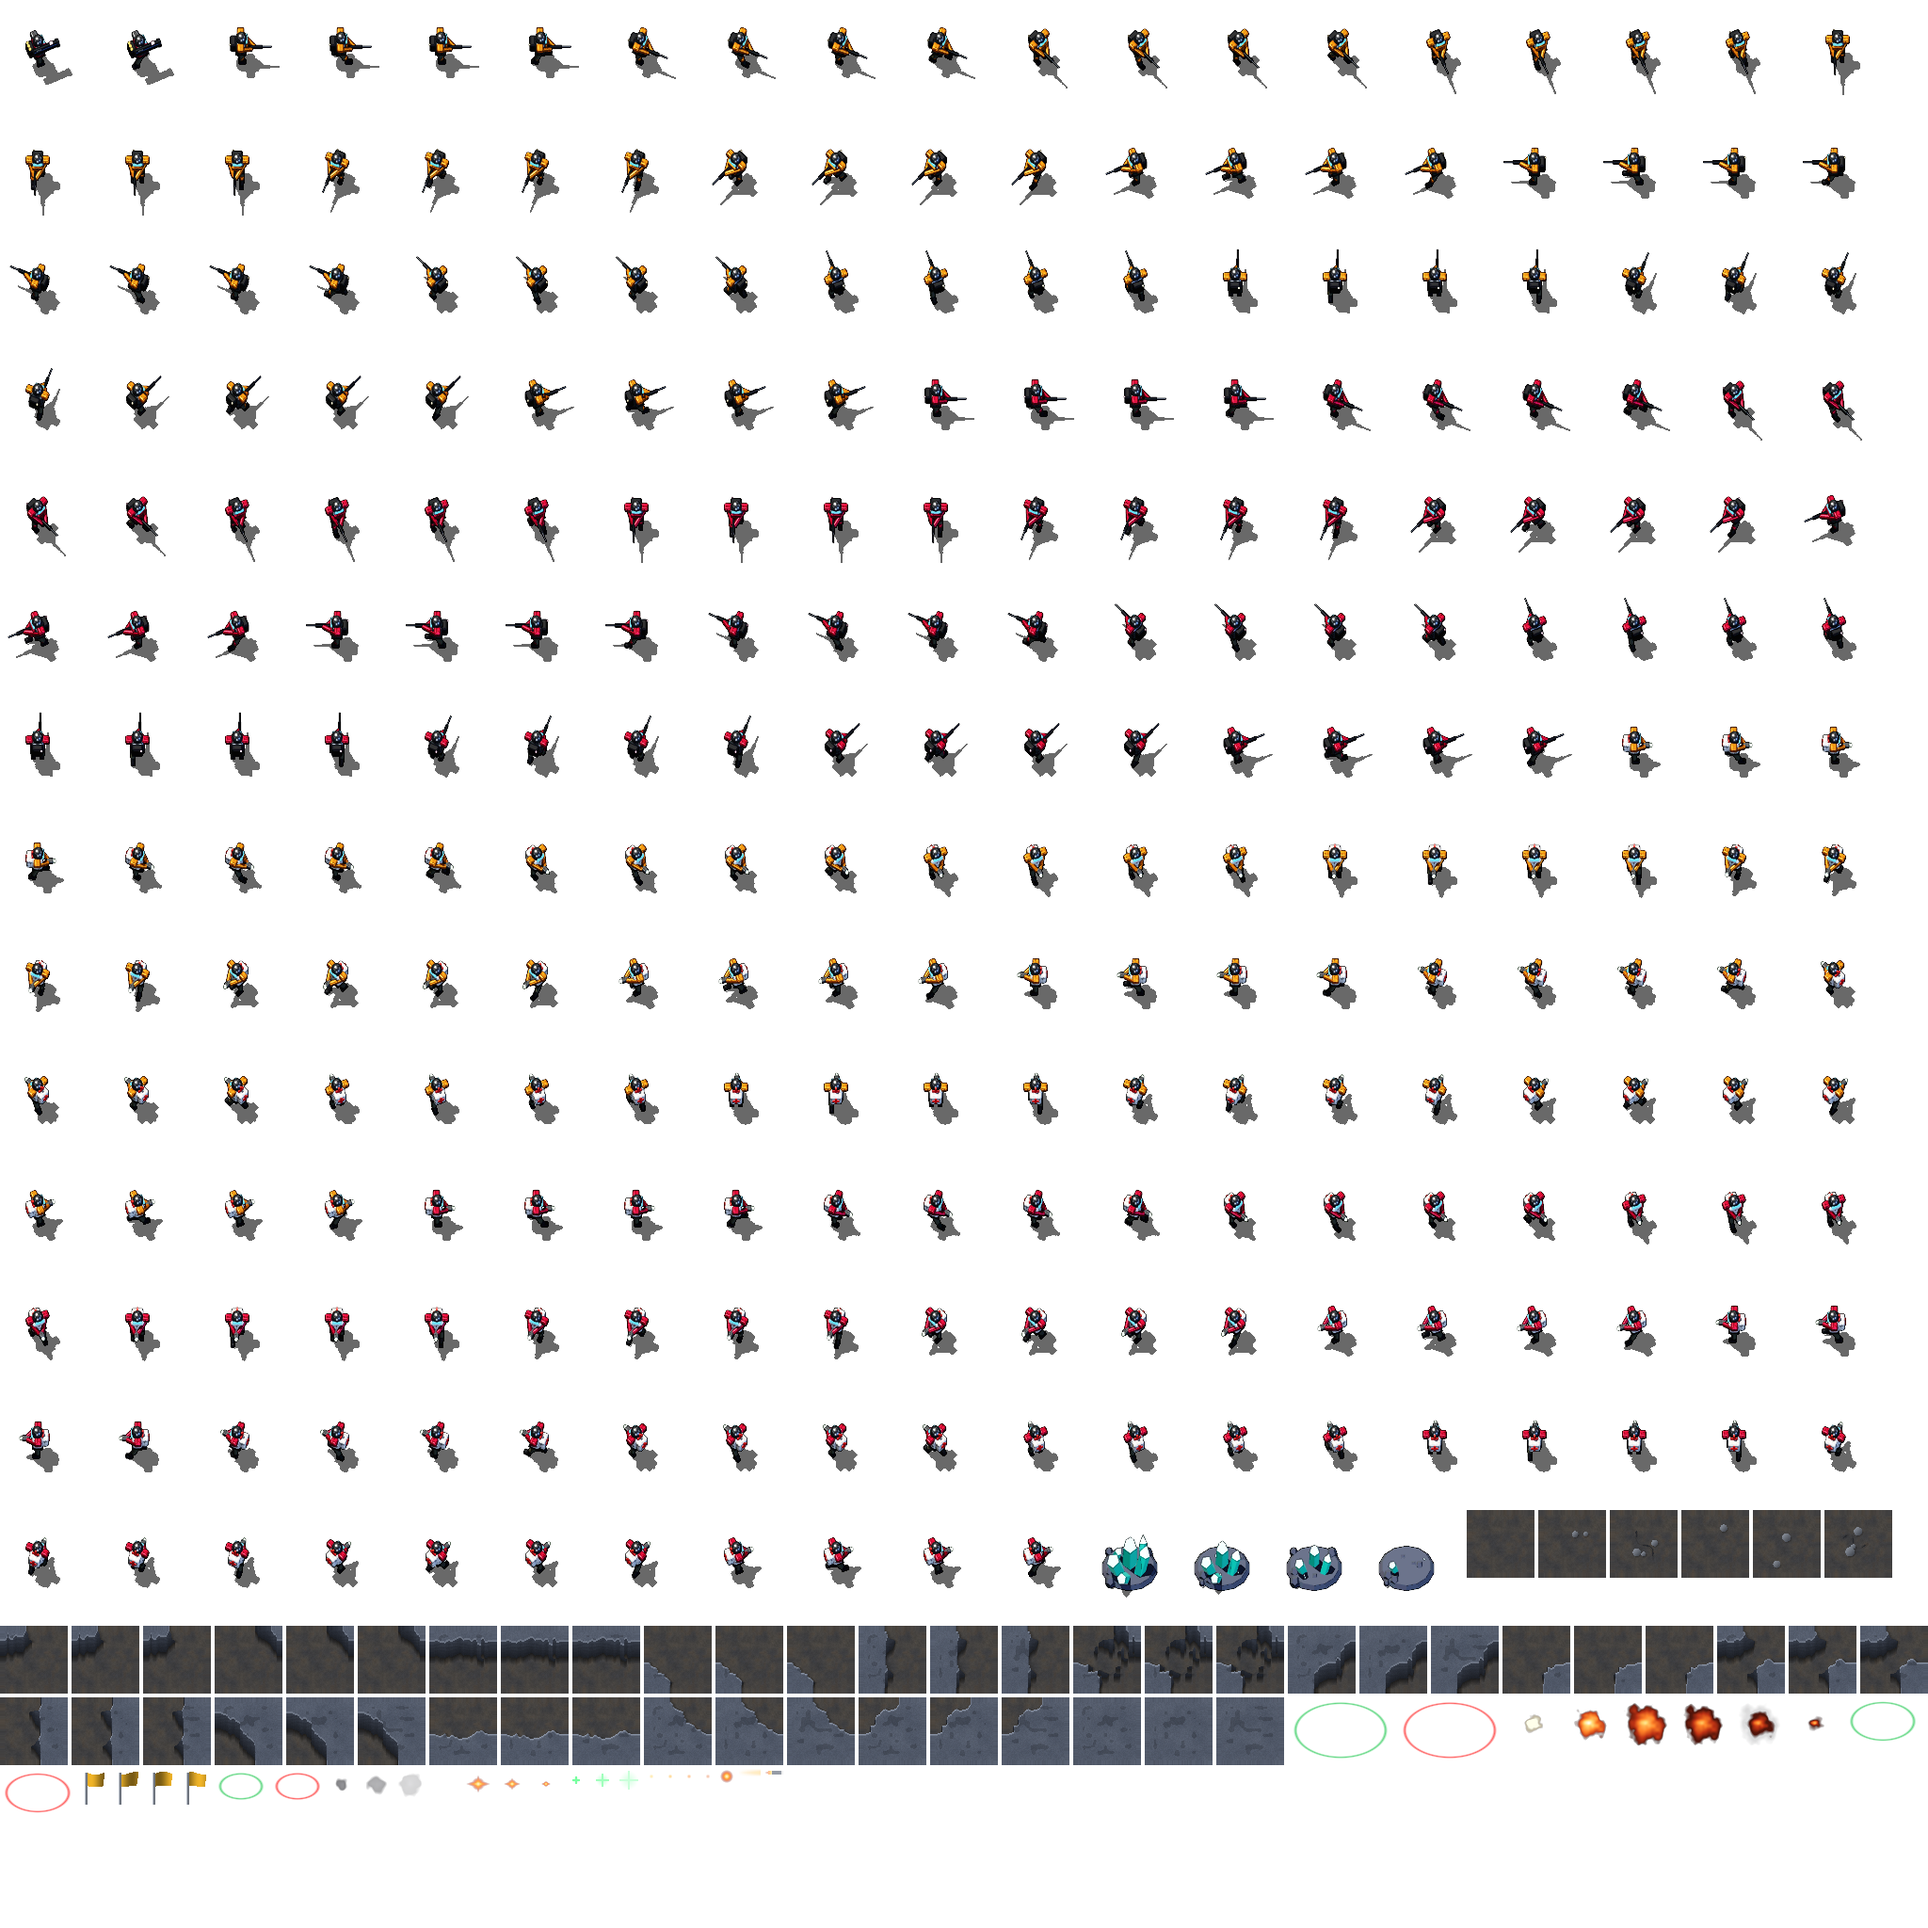
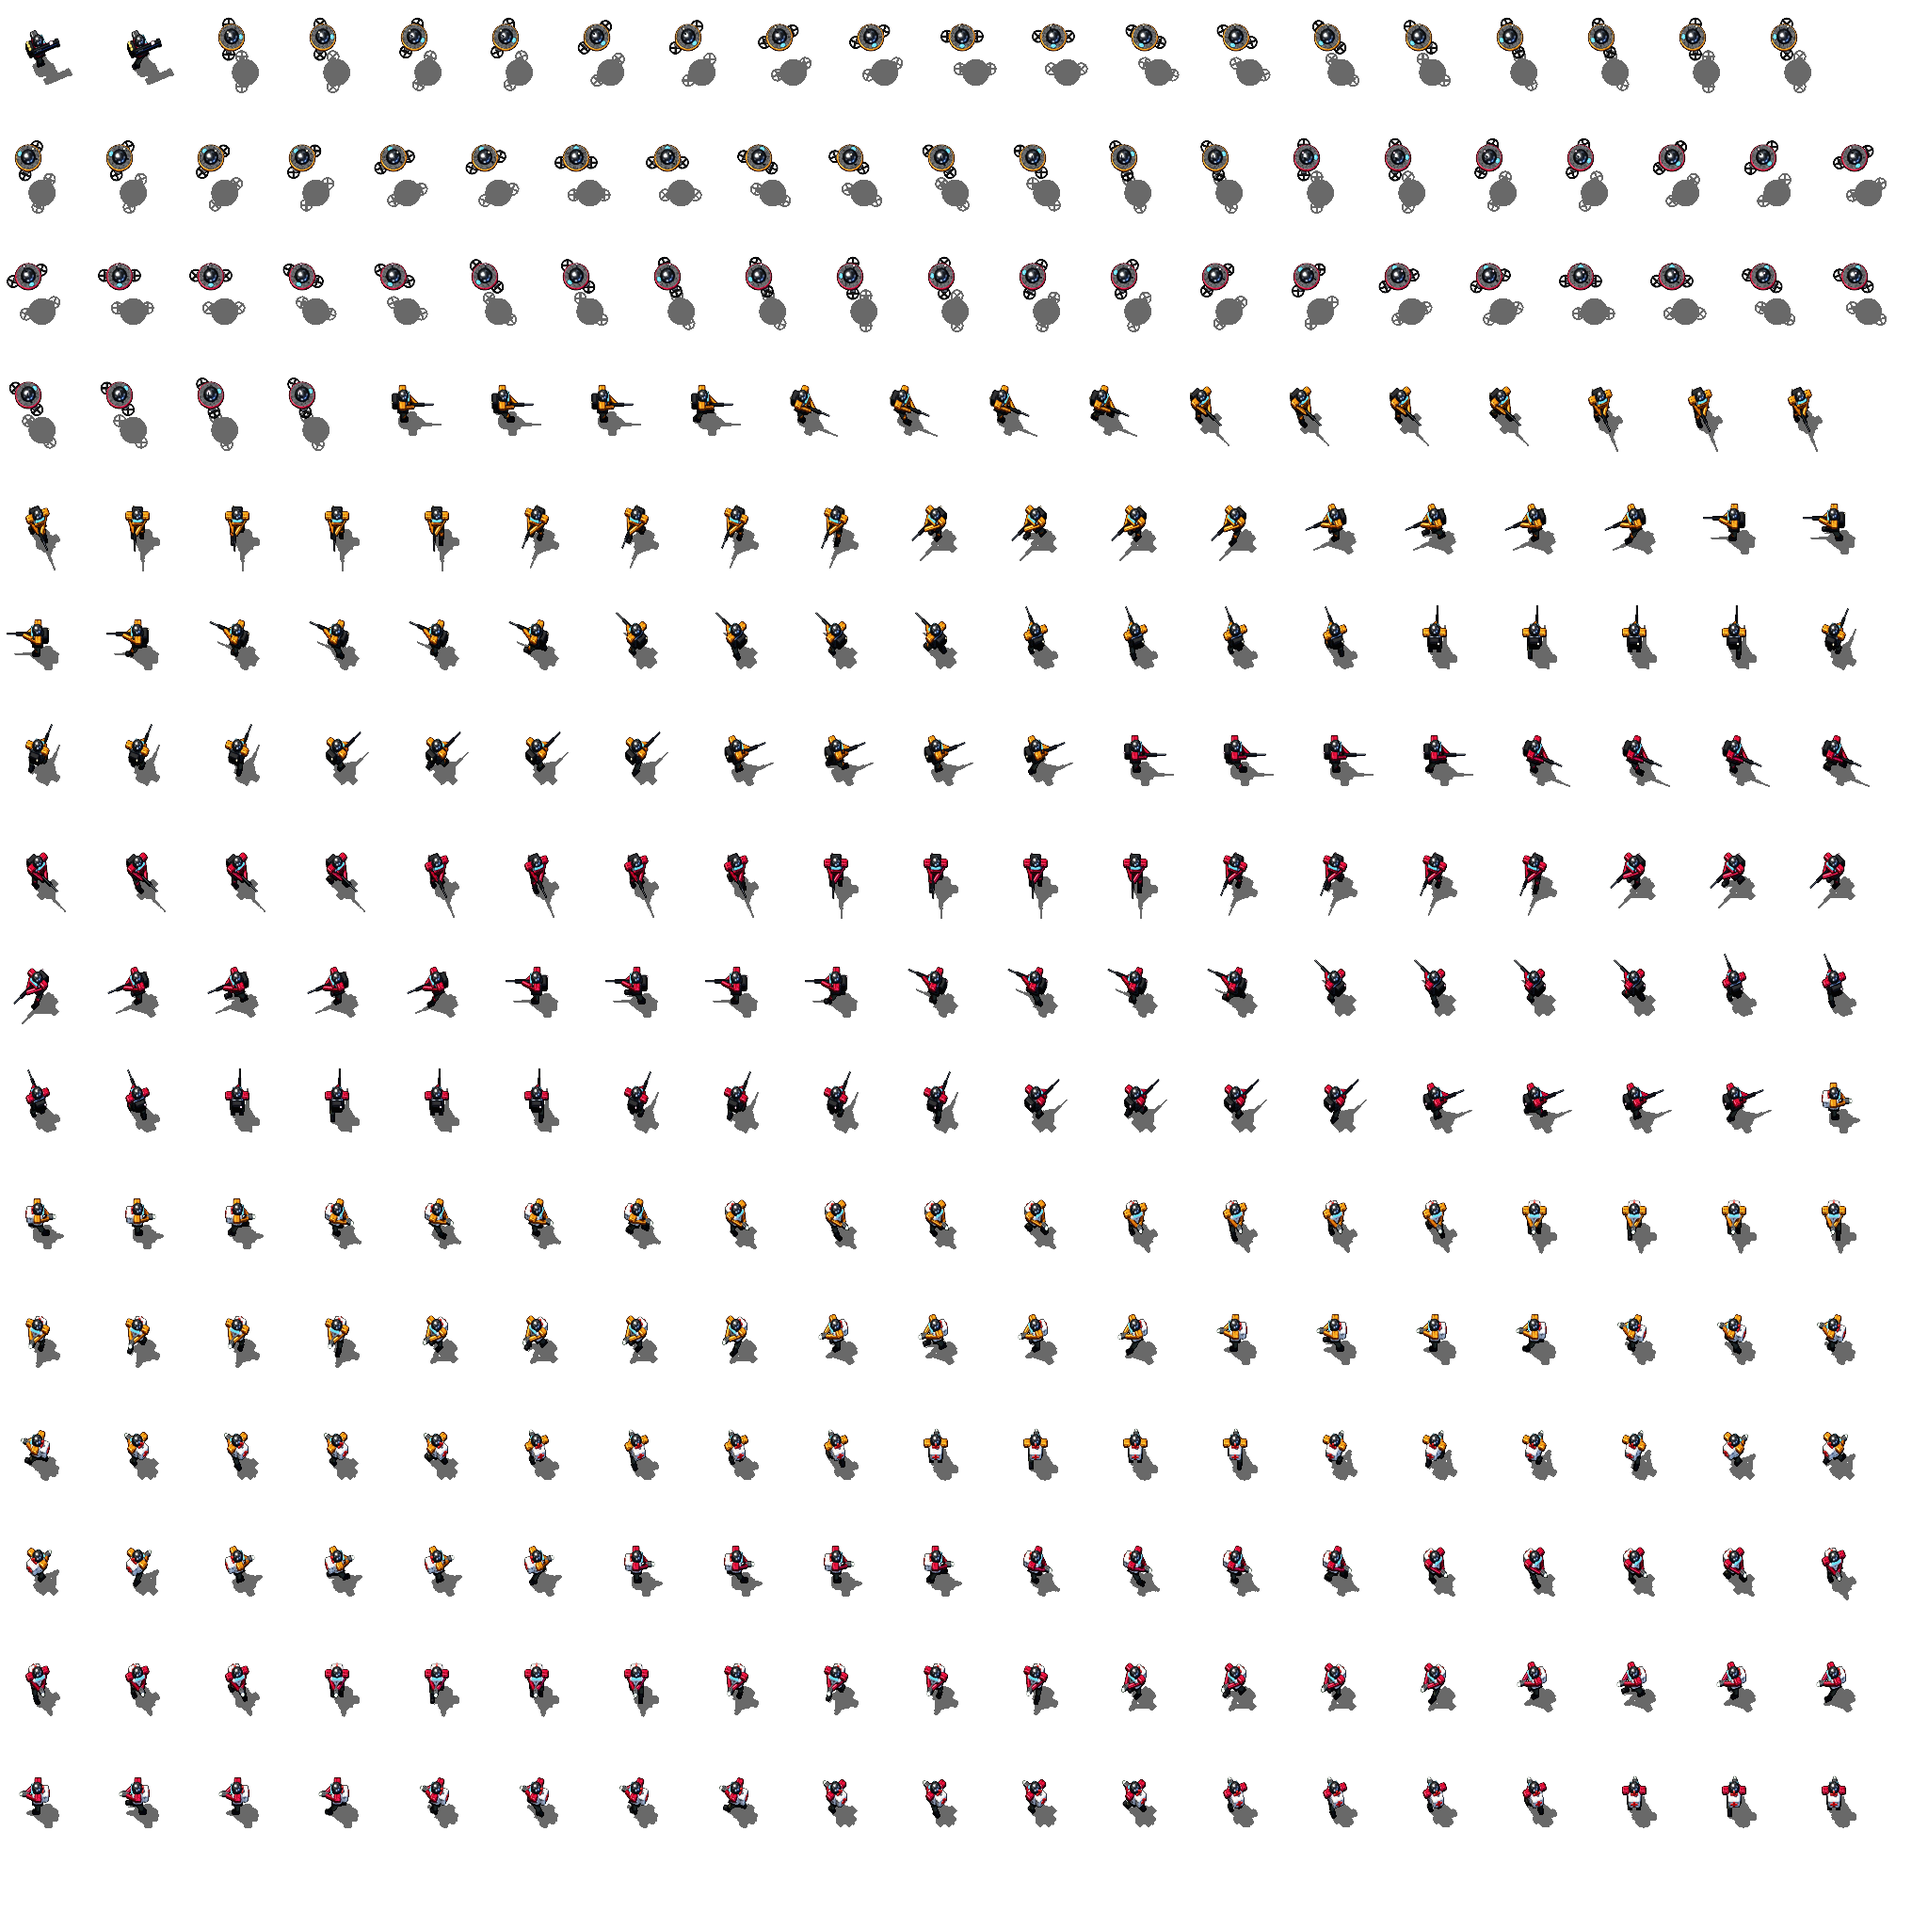
Observer: a cheap unarmed flying scout from the Airfield, with its 3D model

diff --git a/src/engine/constants.js b/src/engine/constants.js
@@ -20,6 +20,7 @@ export const UNITS = {
   lancer: { name: 'Lancer', cost: [75, 25], supply: 1, hp: 60, armor: 0, speed: 88, range: 6, dmg: 5, dmgAir: 30, cd: 1.2, sight: 9, r: 9, build: 18, hot: 'L', proj: 'missile', bio: true, desc: 'Anti-air infantry. Missiles shred flyers, weak against the ground.' },
   medic: { name: 'Medic', cost: [40, 20], supply: 1, hp: 45, armor: 0, speed: 90, range: 0, dmg: 0, dmgAir: 0, cd: 1, sight: 8, r: 9, build: 20, hot: 'M', bio: true, heal: 14, req: 'forge', desc: 'Heals nearby infantry. Unarmed. Requires War Forge.' },
   wasp: { name: 'Wasp', cost: [100, 60], supply: 2, hp: 100, armor: 0, speed: 150, range: 3, dmg: 9, dmgAir: 0, cd: 0.7, sight: 9, r: 10, build: 24, hot: 'W', proj: 'bolt', air: true, desc: 'Fast gunship. Flies over cliffs and buildings, strafes the ground.' },
+  observer: { name: 'Observer', cost: [25, 25], supply: 1, hp: 40, armor: 0, speed: 175, range: 0, dmg: 0, dmgAir: 0, cd: 1, sight: 12, r: 8, build: 14, hot: 'O', air: true, desc: 'Cheap flying scout. Unarmed and fast; sees far and flies over cliffs.' },
 };
 
 export const BUILDINGS = {
@@ -29,7 +30,7 @@ export const BUILDINGS = {
   barracks: { name: 'Barracks', cost: [150, 0], w: 3, h: 3, hp: 720, armor: 1, build: 40, sight: 7, trains: ['trooper', 'lancer', 'medic', 'vanguard'], hot: 'B', desc: 'Trains Troopers, Lancers, Medics and Vanguards (Medics and Vanguards need a War Forge).' },
   forge: { name: 'War Forge', cost: [150, 100], w: 3, h: 3, hp: 820, armor: 1, build: 45, sight: 7, trains: [], hot: 'F', req: 'barracks', desc: 'Researches weapon and armor upgrades; unlocks Medics and Vanguards at the Barracks. Requires Barracks.' },
   turret: { name: 'Sentinel Turret', cost: [100, 0], w: 2, h: 2, hp: 320, armor: 1, build: 20, sight: 9, hot: 'R', req: 'barracks', range: 7, dmg: 18, dmgAir: 26, cd: 1.1, proj: 'bolt', desc: 'Static defense against ground and air. Requires Barracks.' },
-  airfield: { name: 'Airfield', cost: [150, 100], w: 3, h: 3, hp: 760, armor: 1, build: 50, sight: 8, trains: ['wasp'], hot: 'A', req: 'forge', desc: 'Trains Wasps. Requires War Forge.' },
+  airfield: { name: 'Airfield', cost: [150, 100], w: 3, h: 3, hp: 760, armor: 1, build: 50, sight: 8, trains: ['wasp', 'observer'], hot: 'A', req: 'forge', desc: 'Trains Wasps. Requires War Forge.' },
 };
 
 /** Team-wide upgrades researched at the War Forge; per level: shards = ether cost, seconds. */

diff --git a/tools/render3d/models.js b/tools/render3d/models.js
@@ -222,6 +222,28 @@ export function wasp(M, f) {
   return g;
 }
 
+/** A small scout drone: a domed disc with a glowing eye, a team-coloured rim and two counter-rotating fans. */
+export function observer(M, f) {
+  const g = grp(), body = grp();
+  body.position.y = 18;
+  add(body, cyl(6.5, 5, 2.6, 24), M.trim, 0, 0, 0);                                    // hull disc
+  add(body, new THREE.TorusGeometry(6.4, 0.7, 8, 28), M.paint, 0, 0.6, 0, Math.PI / 2); // team rim
+  const dome = add(body, new THREE.SphereGeometry(4, 20, 10, 0, Math.PI * 2, 0, Math.PI / 2), M.steel, 0, 1.2, 0);
+  dome.scale.set(1, 0.7, 1);
+  add(body, sph(1.8, 14, 10), M.glass, 4.8, 0.2, 0).scale.set(0.8, 1, 1);              // the eye (faces +x)
+  add(body, sph(0.7, 8, 6), M.lamp, 5.9, 0.3, 0);
+  add(body, cyl(0.25, 0.25, 5, 6), M.steel, -2, 4.2, 1.5); add(body, sph(0.5, 8, 6), M.lamp, -2, 6.8, 1.5); // antenna
+  for (const side of [-1, 1]) {
+    const fan = grp(); fan.position.set(-1.5, -0.6, side * 8);
+    add(fan, new THREE.TorusGeometry(3, 0.4, 6, 20), M.dark, 0, 0, 0, Math.PI / 2);
+    for (let k = 0; k < 2; k++) add(fan, rbox(5.6, 0.2, 0.9, 0.1), M.rotor, 0, 0, 0, 0, k * Math.PI / 2 + (f % 2) * Math.PI / 4 * side, 0);
+    add(body, rbox(3, 0.8, 4, 0.3), M.trim, -1.5, -0.4, side * 5.5);                  // fan arm
+    body.add(fan);
+  }
+  g.add(body);
+  return g;
+}
+
 export const UNIT_MODELS = {
   // r: the farthest any part reaches from the centre (any facing must fit), h: height
   harvester: { build: harvester, frames: 2, r: 23, h: 15 },
@@ -230,4 +252,5 @@ export const UNIT_MODELS = {
   lancer: { build: lancer, frames: 4, r: 18, h: 18 },
   medic: { build: medic, frames: 4, r: 18, h: 16 },
   wasp: { build: wasp, frames: 2, r: 26, h: 26 },
+  observer: { build: observer, frames: 2, r: 13, h: 26 },
 };

diff --git a/src/client/audio.js b/src/client/audio.js
@@ -51,7 +51,7 @@ function noise(bus, t, { dur = 0.1, vol = 0.1, filter = 'lowpass', f = 1200, to,
 }
 
 /** Radio chirp pitch by unit type: heavy machines low, flyers and medics high. */
-const VOICE = { harvester: 330, trooper: 520, lancer: 600, medic: 760, vanguard: 260, wasp: 880 };
+const VOICE = { harvester: 330, trooper: 520, lancer: 600, medic: 760, vanguard: 260, wasp: 880, observer: 1040 };
 
 const SFX = {
   // interface

diff --git a/crates/endfall-sim/tests/gameplay.rs b/crates/endfall-sim/tests/gameplay.rs
@@ -138,8 +138,14 @@ fn every_building_and_unit_can_be_made() {
         w.queue_unit(rax, UnitKind::Lancer).unwrap();
         w.queue_unit(rax, UnitKind::Medic).unwrap();
         w.queue_unit(airfield, UnitKind::Wasp).unwrap();
+        w.queue_unit(airfield, UnitKind::Observer).unwrap();
         run(&mut w, 100);
-        for k in [UnitKind::Lancer, UnitKind::Medic, UnitKind::Wasp] {
+        for k in [
+            UnitKind::Lancer,
+            UnitKind::Medic,
+            UnitKind::Wasp,
+            UnitKind::Observer,
+        ] {
             assert_eq!(count(&w, PLAYER, k), 1, "seed {seed}: {k:?} trained");
         }
         assert_eq!(
@@ -2634,4 +2640,34 @@ fn maps_are_walkable_mirrored_and_fair_from_the_first_minute() {
             "seed {seed}: {a} vs {b} shards after two minutes"
         );
     }
+}
+
+#[test]
+fn an_observer_scouts_but_cannot_fight() {
+    let mut w = flat_arena(16);
+    let o = w.make_unit(UnitKind::Observer, PLAYER, 700.0, 1000.0);
+    let foe = w.make_unit(UnitKind::Harvester, ENEMY, 760.0, 1000.0);
+    w.hold_unit(foe);
+    w.attack_ent(o, foe);
+    w.attack_move(o, 1100.0, 1000.0);
+    run(&mut w, 6);
+    assert_eq!(
+        w.unit(foe).unwrap().hp,
+        w.unit(foe).unwrap().maxhp,
+        "unarmed: it hurts nobody"
+    );
+    let u = w.unit(o).unwrap();
+    assert!(u.x > 1000.0, "it flies on regardless: x {}", u.x);
+    // It sees much farther than a Trooper: a unit 11 tiles away is in view.
+    let far = w.make_unit(UnitKind::Trooper, ENEMY, u.x + 11.0 * TILE, u.y);
+    w.hold_unit(far);
+    run(&mut w, 1);
+    let f = w.unit(far).unwrap();
+    assert!(
+        w.vis[PLAYER as usize][World::tile_of(f.x, f.y).1 as usize * MW as usize
+            + World::tile_of(f.x, f.y).0 as usize]
+            > 0,
+        "seen from 11 tiles"
+    );
+    assert!(UnitKind::Observer.def().air, "and it flies");
 }

diff --git a/crates/endfall-sim/src/data.rs b/crates/endfall-sim/src/data.rs
@@ -34,6 +34,7 @@ pub enum UnitKind {
     Lancer,
     Medic,
     Wasp,
+    Observer,
 }
 
 /// Building kinds, same rule as UnitKind.
@@ -143,13 +144,14 @@ pub struct BldgDef {
     pub up_dmg: f64,
 }
 
-pub const UNIT_KINDS: [UnitKind; 6] = [
+pub const UNIT_KINDS: [UnitKind; 7] = [
     UnitKind::Harvester,
     UnitKind::Trooper,
     UnitKind::Vanguard,
     UnitKind::Lancer,
     UnitKind::Medic,
     UnitKind::Wasp,
+    UnitKind::Observer,
 ];
 pub const BLDG_KINDS: [BldgKind; 7] = [
     BldgKind::Core,
@@ -277,6 +279,21 @@ const WASP: UnitDef = UnitDef {
     up_dmg: 1.0,
     ..UNIT
 };
+/// A cheap unarmed flying scout: fast, sees far, flies over cliffs. (No cloak and no detection: it is simply small
+/// and quick, and anything that shoots air can bring it down.)
+const OBSERVER: UnitDef = UnitDef {
+    key: "observer",
+    cost: [25, 25],
+    hp: 40.0,
+    speed: 175.0,
+    range: 0.0,
+    dmg: 0.0,
+    sight: 12.0,
+    r: 8.0,
+    build: 14.0,
+    air: true,
+    ..UNIT
+};
 
 const BLDG: BldgDef = BldgDef {
     key: "",
@@ -388,7 +405,7 @@ const AIRFIELD: BldgDef = BldgDef {
     hp: 760.0,
     build: 50.0,
     sight: 8.0,
-    trains: &[UnitKind::Wasp],
+    trains: &[UnitKind::Wasp, UnitKind::Observer],
     req: Some(BldgKind::Forge),
     ..BLDG
 };
@@ -402,6 +419,7 @@ impl UnitKind {
             UnitKind::Lancer => &LANCER,
             UnitKind::Medic => &MEDIC,
             UnitKind::Wasp => &WASP,
+            UnitKind::Observer => &OBSERVER,
         }
     }
     pub fn parse(s: &str) -> Option<UnitKind> {

diff --git a/docs/PLAN.md b/docs/PLAN.md
@@ -48,6 +48,7 @@ loop feels right.
 - [ ] Hand-authored maps + a tiny map format (JSON); keep the generator for skirmish
 - [x] Sprite art pass (pre-rendered 3D units and buildings, painted terrain)
 - [x] Repair: harvesters restore damaged buildings at construction speed for a quarter of the price (the AI repairs too)
+- [x] Observer (2026-10-23): a cheap (25/25) unarmed flying scout from the Airfield, fast with 12-tile sight; no cloak or detection.
 - [x] Map variety (2026-10-23): maps used to share one layout (bases always bottom-left/top-right, every field in the same place). The generator now draws per seed: where the bases face each other (either diagonal, west/east, south/north; `Map.bases`), the rock feature size, two or three mirrored expansion sites and an optional centre field; terrain and resources are point-symmetric so both sides get the same map.
 - [x] Start menu: opponent, sound, three fixed maps (Ashen Basin, Glass Reach, Cinder Divide) with hidden characters (MapKind: standard, deep fields, ether storm, open plains, labyrinth, barren) and a random map; phone tap-to-play splash for full screen
 - [x] Scenery: 3D-rendered props scattered from the map seed (boulders, spires, ruins, wrecks on plateaus; craters and debris on open ground)

diff --git a/README.md b/README.md
@@ -21,7 +21,7 @@ your Core. `Backspace` (or the browser's back gesture) asks before leaving a gam
 **Units:** Harvesters mine, build and repair. The Barracks trains Troopers (shoot ground and air), Lancers (anti-air
 missiles), Medics (heal infantry) and Vanguards (heavy walkers whose shells splash, ground only); Medics and Vanguards
 need a War Forge, which researches weapon and armor upgrades. The Airfield trains Wasps, gunships that fly over cliffs
-and buildings. Turrets hit ground and air.
+and buildings, and Observers, cheap unarmed flying scouts. Turrets hit ground and air.
 
 **Zoom:** pinch on touch screens, Ctrl+wheel or trackpad pinch with a mouse.
 
